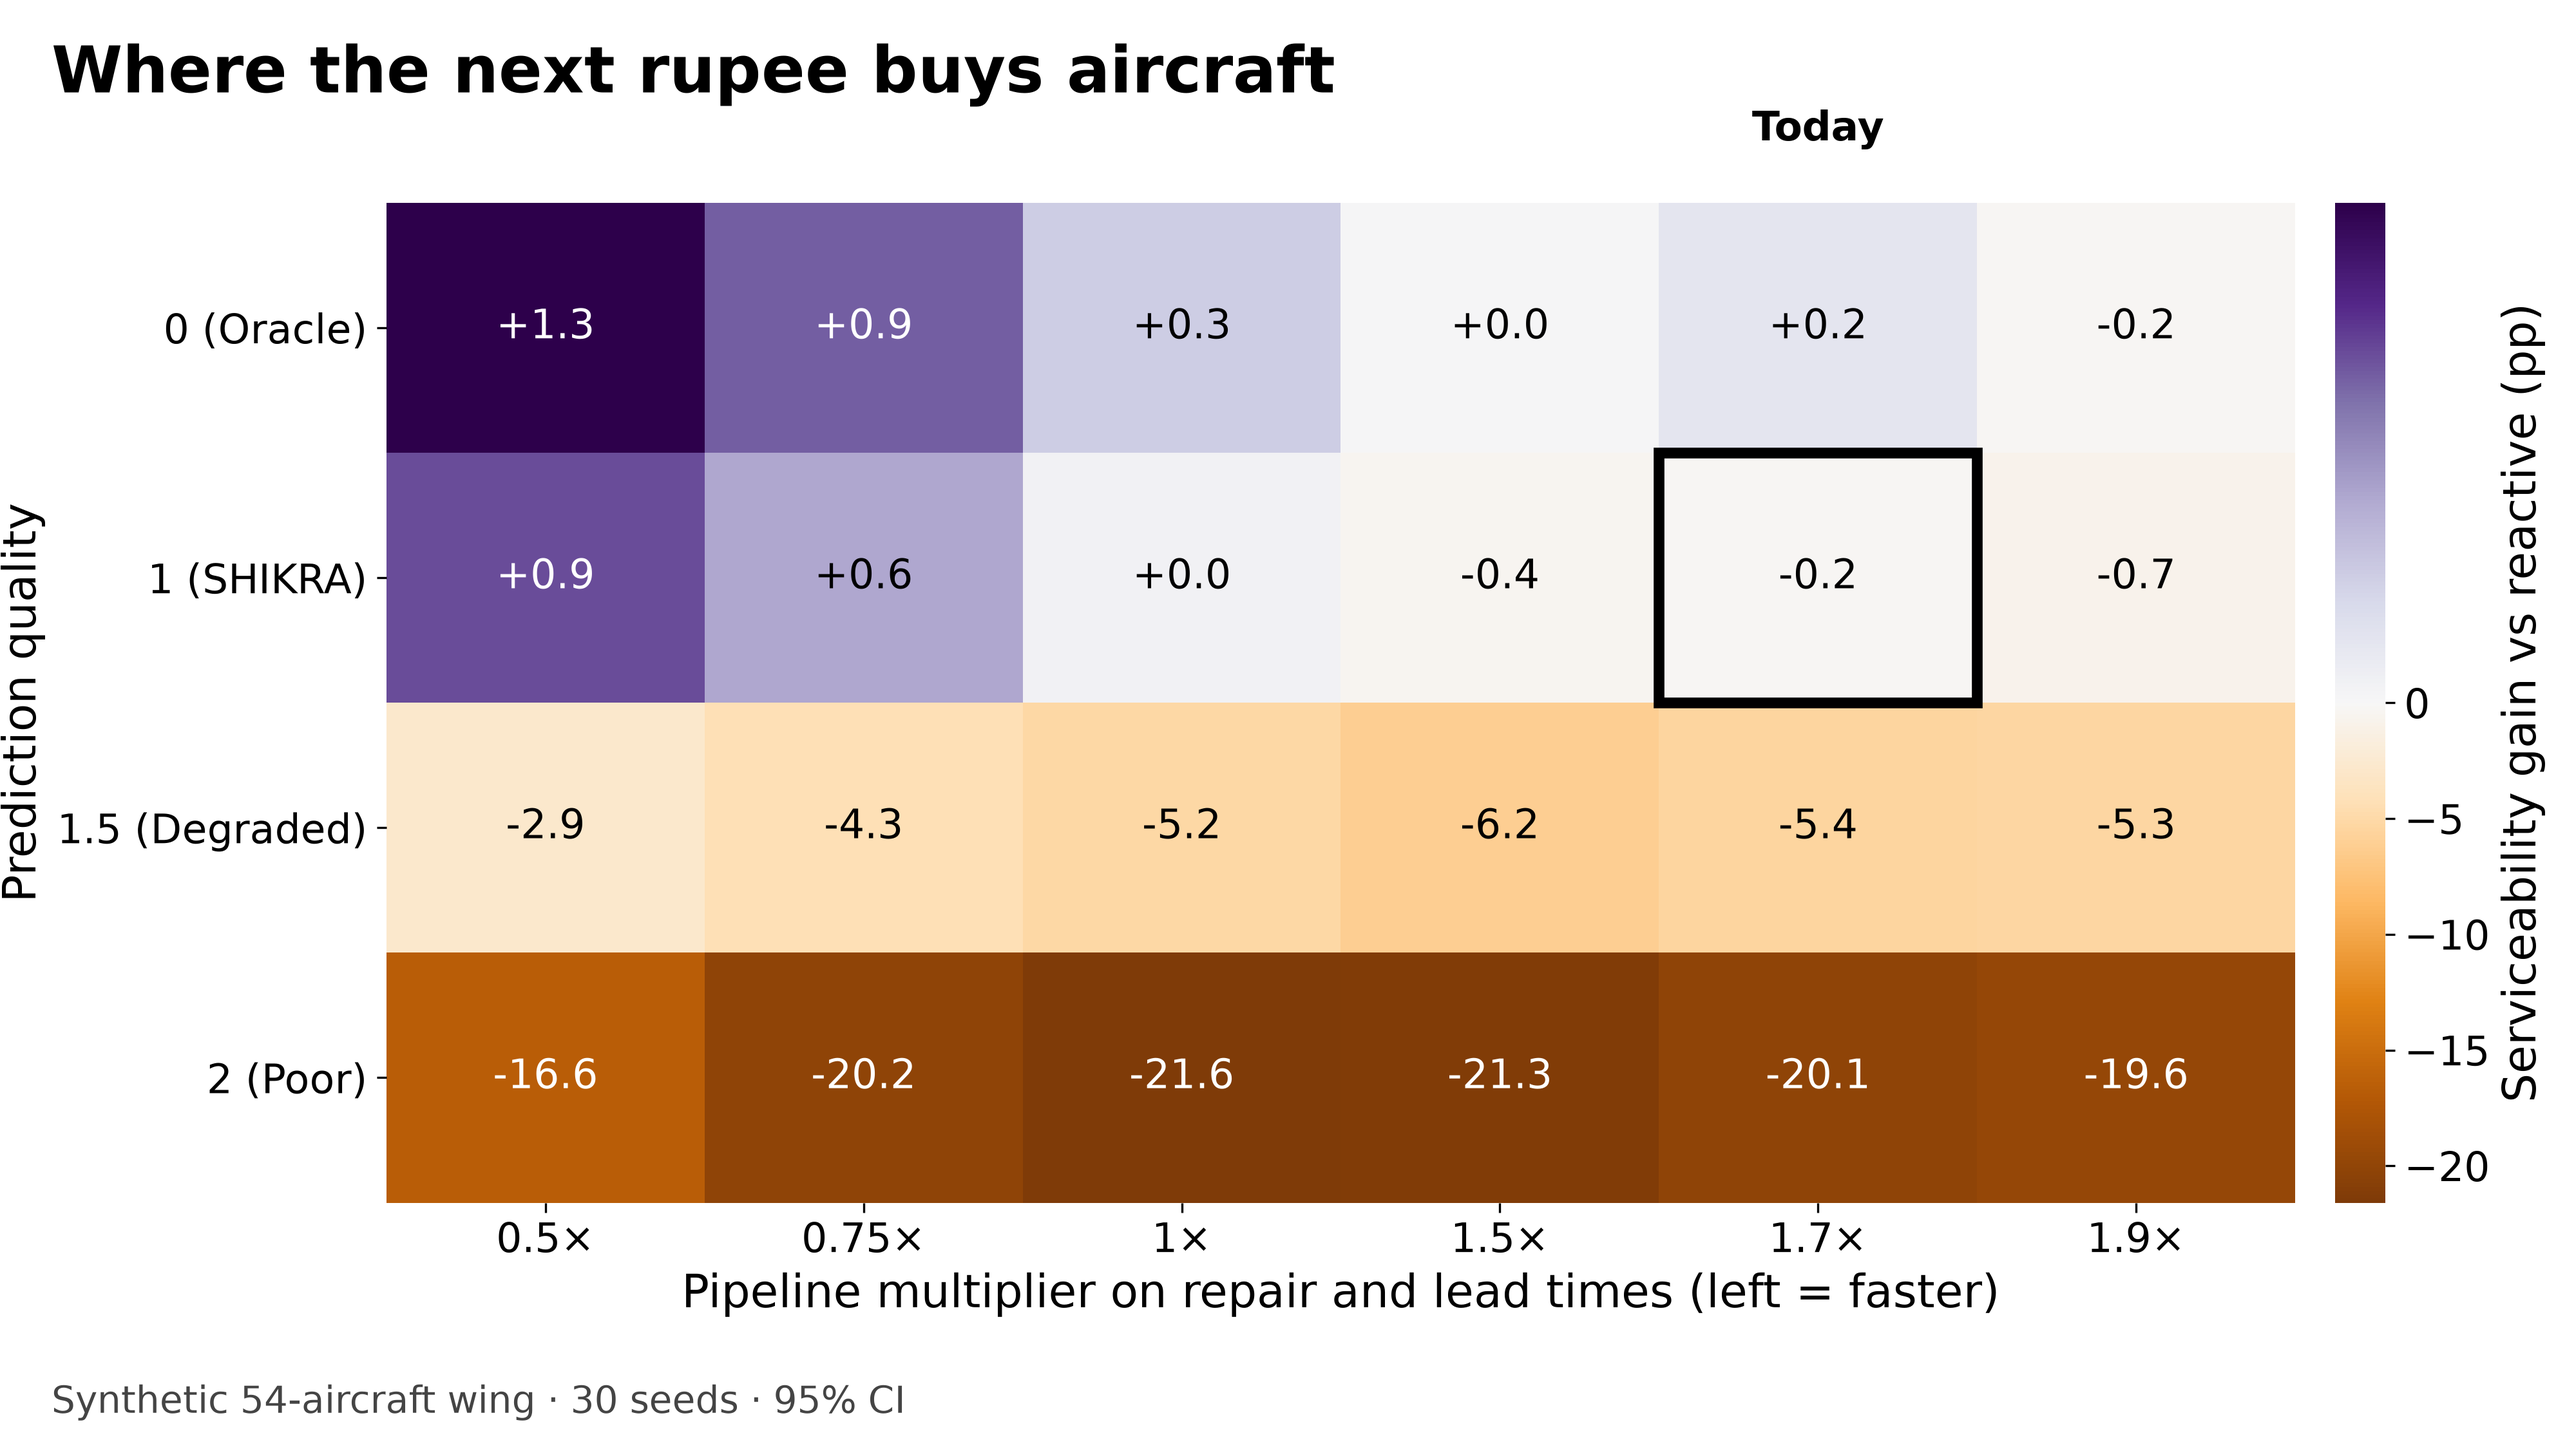
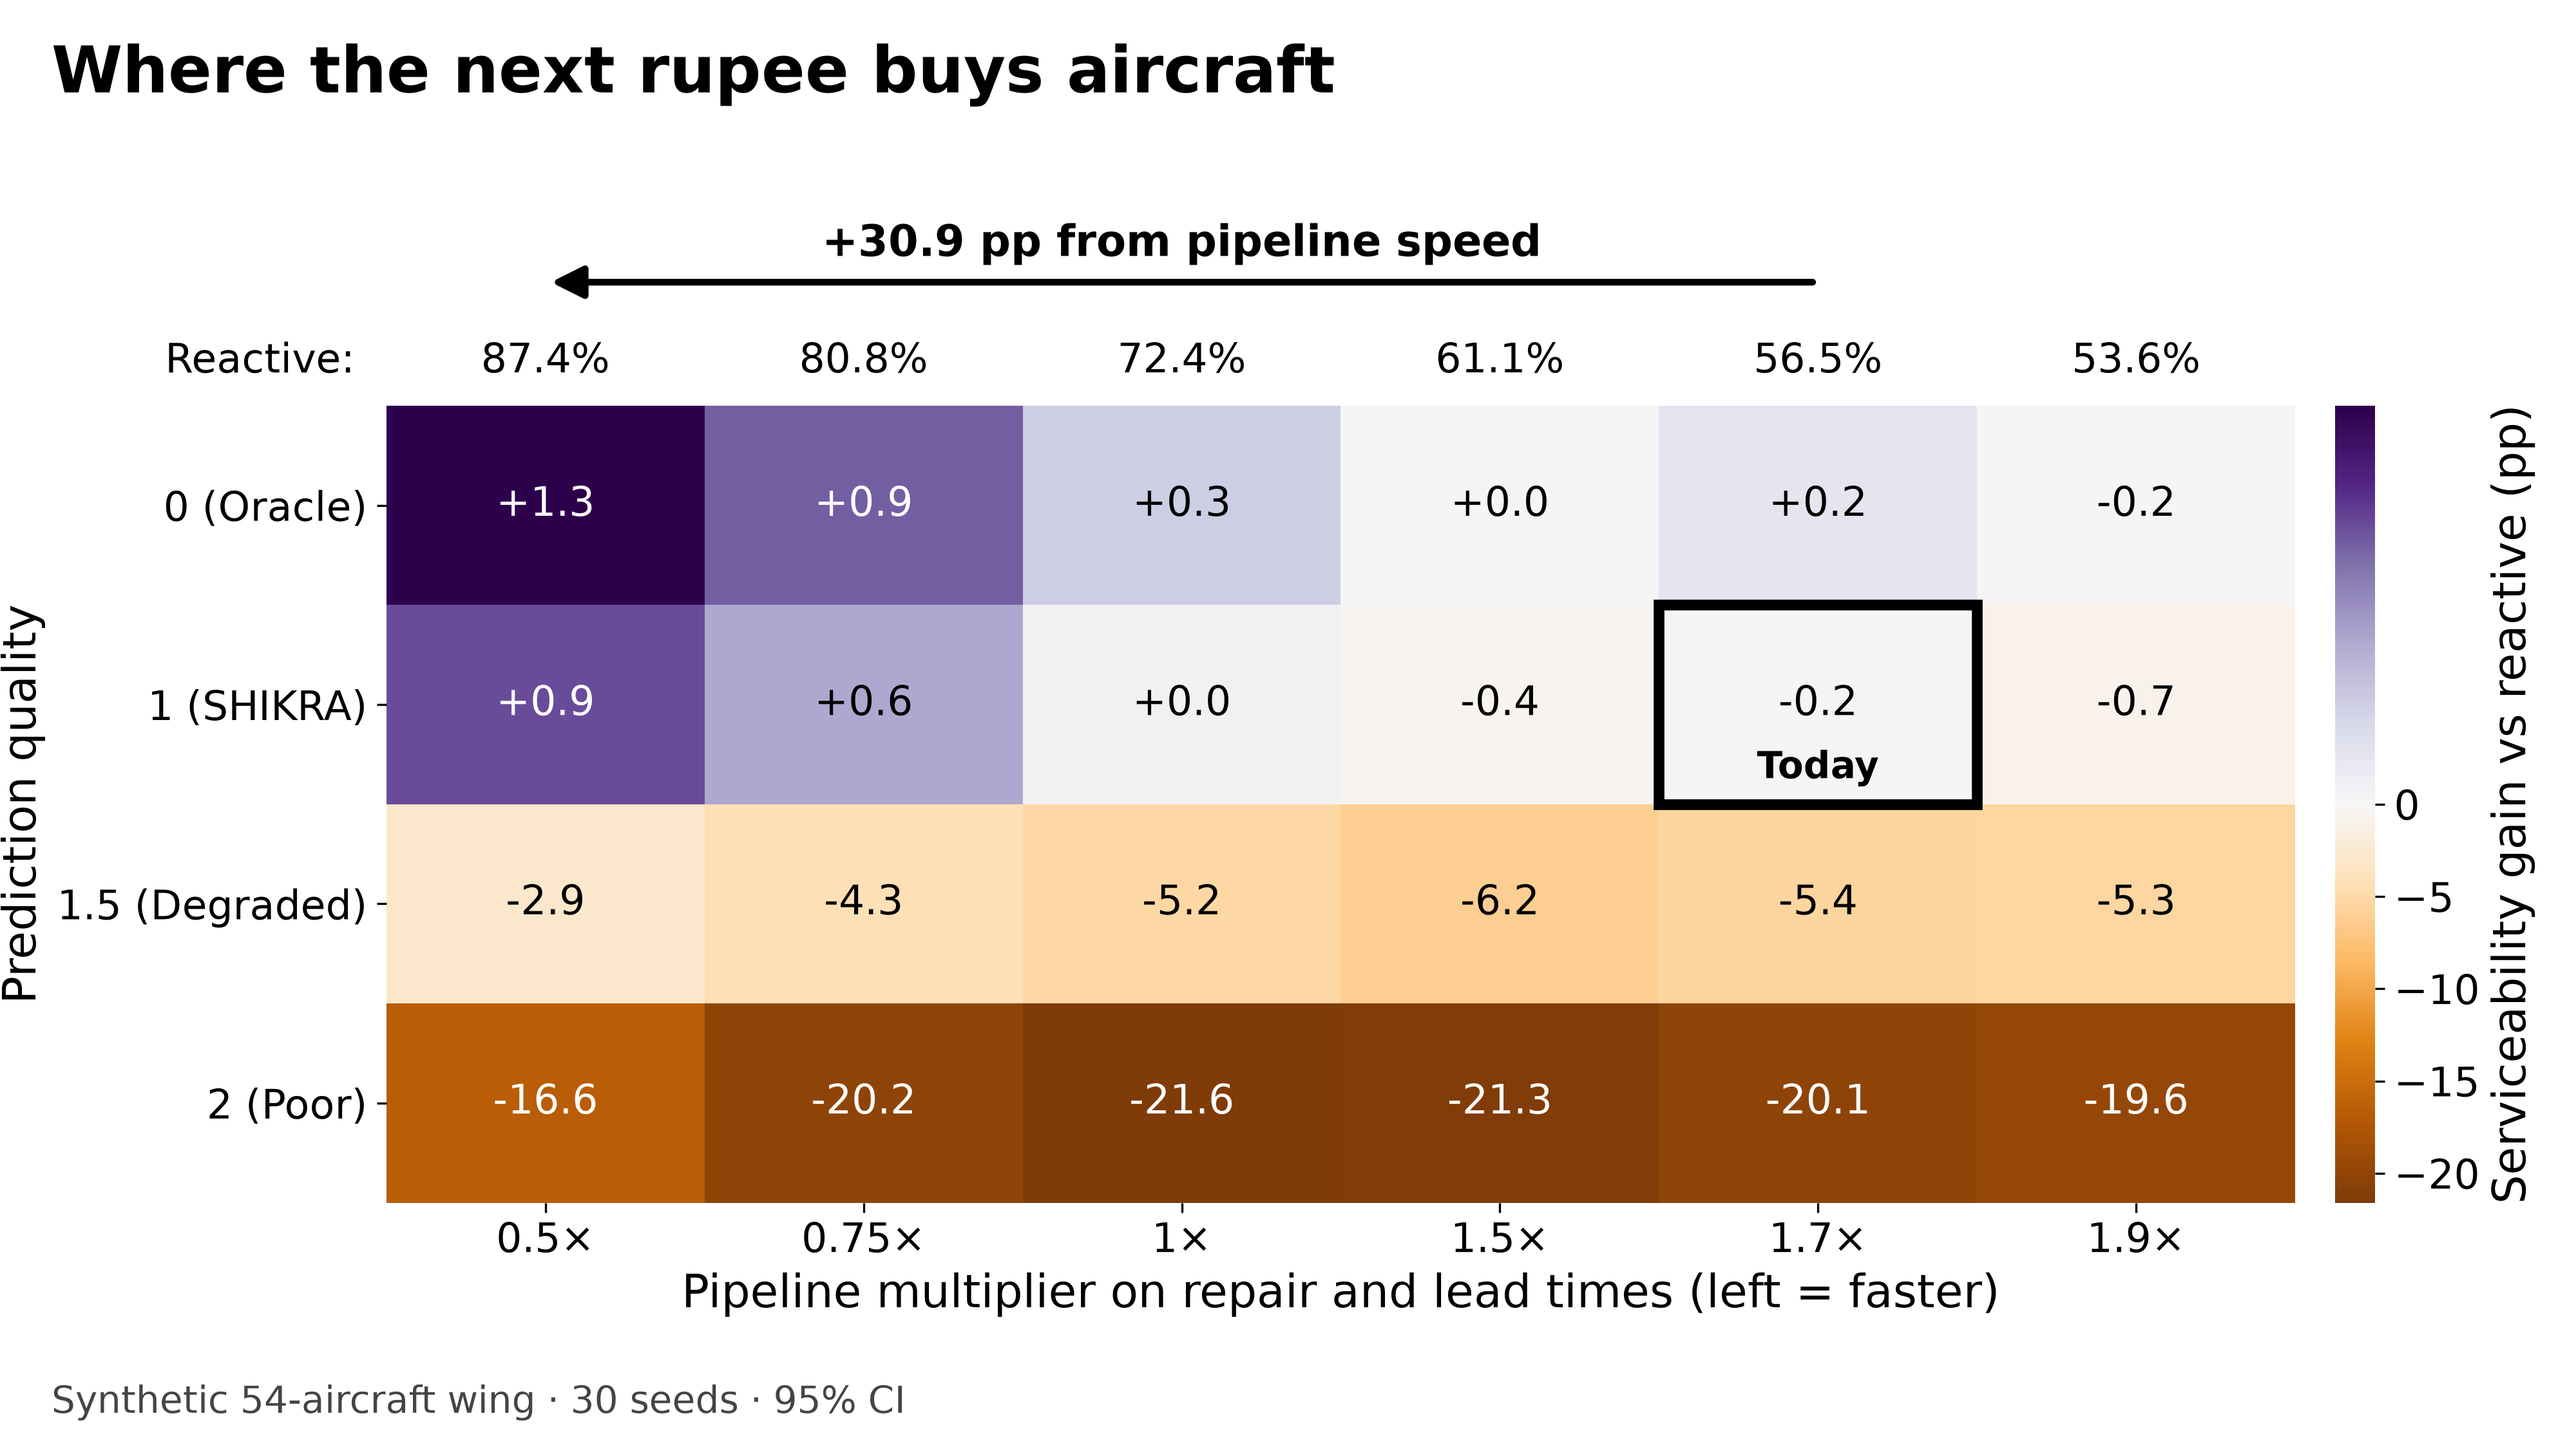
feat(deck): reactive row and pipeline-speed arrow on lever map; restore indigenise title

diff --git a/scripts/deck_figures.py b/scripts/deck_figures.py
@@ -105,7 +105,7 @@ def lever_map(out: Path, wing: dict) -> dict:
     vals = grid.to_numpy()
 
     fig, ax = _new_fig()
-    fig.subplots_adjust(left=0.15, right=0.93)
+    fig.subplots_adjust(left=0.15, right=0.93, top=0.72)
     norm = TwoSlopeNorm(vmin=min(vals.min(), -1e-9), vcenter=0.0, vmax=max(vals.max(), 1e-9))
     im = ax.imshow(vals, cmap="PuOr", norm=norm, aspect="auto")
     for i in range(len(quals)):
@@ -126,8 +126,24 @@ def lever_map(out: Path, wing: dict) -> dict:
     shikra_q = next(q for q in quals if "SHIKRA" in labels[q])
     j0, i0 = pipes.index(today), quals.index(shikra_q)
     ax.add_patch(Rectangle((j0 - 0.5, i0 - 0.5), 1, 1, fill=False, lw=4, ec=OI["black"]))
-    ax.annotate("Today", xy=(j0, i0 - 0.5), xytext=(j0, -0.75), ha="center",
-                fontsize=15, fontweight="bold", annotation_clip=False)
+    ax.text(j0, i0 + 0.32, "Today", ha="center", va="center", fontsize=14, fontweight="bold")
+
+    # Reactive serviceability per pipeline column, above the heatmap (y grows downward).
+    reactive = (
+        hm.drop_duplicates("pipeline_mult").set_index("pipeline_mult")
+        ["reactive_serviceability_mean"].reindex(pipes) * 100
+    )
+    ax.text(-0.6, -0.72, "Reactive:", ha="right", va="center", fontsize=15)
+    for j, p in enumerate(pipes):
+        ax.text(j, -0.72, f"{reactive[p]:.1f}%", ha="center", va="center", fontsize=15)
+    j_fast = 0  # pipes is sorted ascending, so column 0 is the fastest pipeline
+    speed_pp = reactive[pipes[j_fast]] - reactive[today]
+    ax.annotate("", xy=(j_fast, -1.12), xytext=(j0, -1.12), annotation_clip=False,
+                arrowprops={"arrowstyle": "-|>", "lw": 2.5, "color": OI["black"],
+                            "mutation_scale": 25})
+    ax.text((j0 + j_fast) / 2, -1.2, f"{speed_pp:+.1f} pp from pipeline speed",
+            ha="center", va="bottom", fontsize=16, fontweight="bold")
+    ax.set_ylim(len(quals) - 0.5, -0.5)
     cb = fig.colorbar(im, ax=ax, fraction=0.03, pad=0.02)
     cb.set_label("Serviceability gain vs reactive (pp)")
     cb.outline.set_visible(False)
@@ -138,7 +154,8 @@ def lever_map(out: Path, wing: dict) -> dict:
         "figure": "lever_map.png",
         "source_csv": "results/heatmap.csv;config/wing.yaml",
         "rows_used": len(hm),
-        "key_value": f"gain_pp_today={vals[i0, j0]:+.2f}",
+        "key_value": f"gain_pp_today={vals[i0, j0]:+.2f};"
+        f"reactive_pp_from_pipeline_speed={speed_pp:+.2f}",
     }
 
 
@@ -248,7 +265,7 @@ def indigenise(out: Path, wing: dict) -> dict:
     ax.text(0.99, 0.2, "Domestic LRUs, not halted:\n" + ", ".join(domestic),
             transform=ax.transAxes, ha="right", va="bottom", fontsize=14,
             color="#444444", wrap=True)
-    _finish(fig, "What to make in India", _sim_caption(wing, _n_reps()), out / "indigenise.png")
+    _finish(fig, "What to make in India first", _sim_caption(wing, _n_reps()), out / "indigenise.png")
     top = per_lru.iloc[-1]
     return {
         "figure": "indigenise.png",
